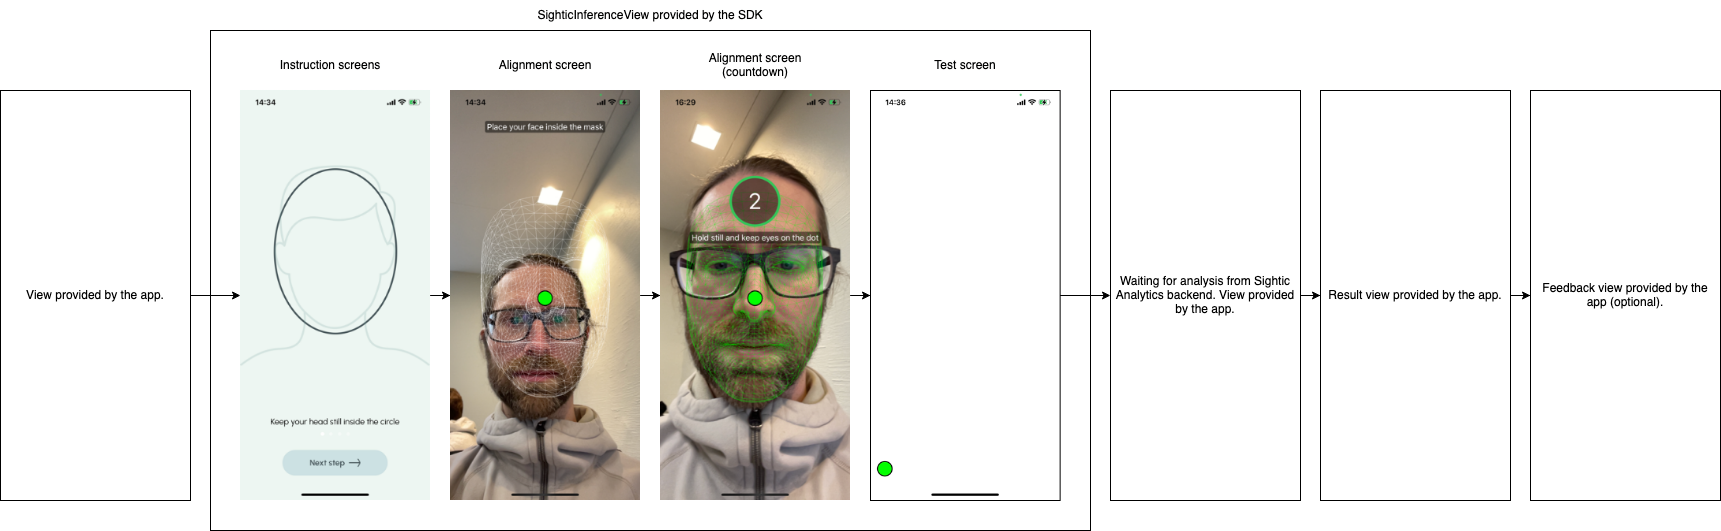
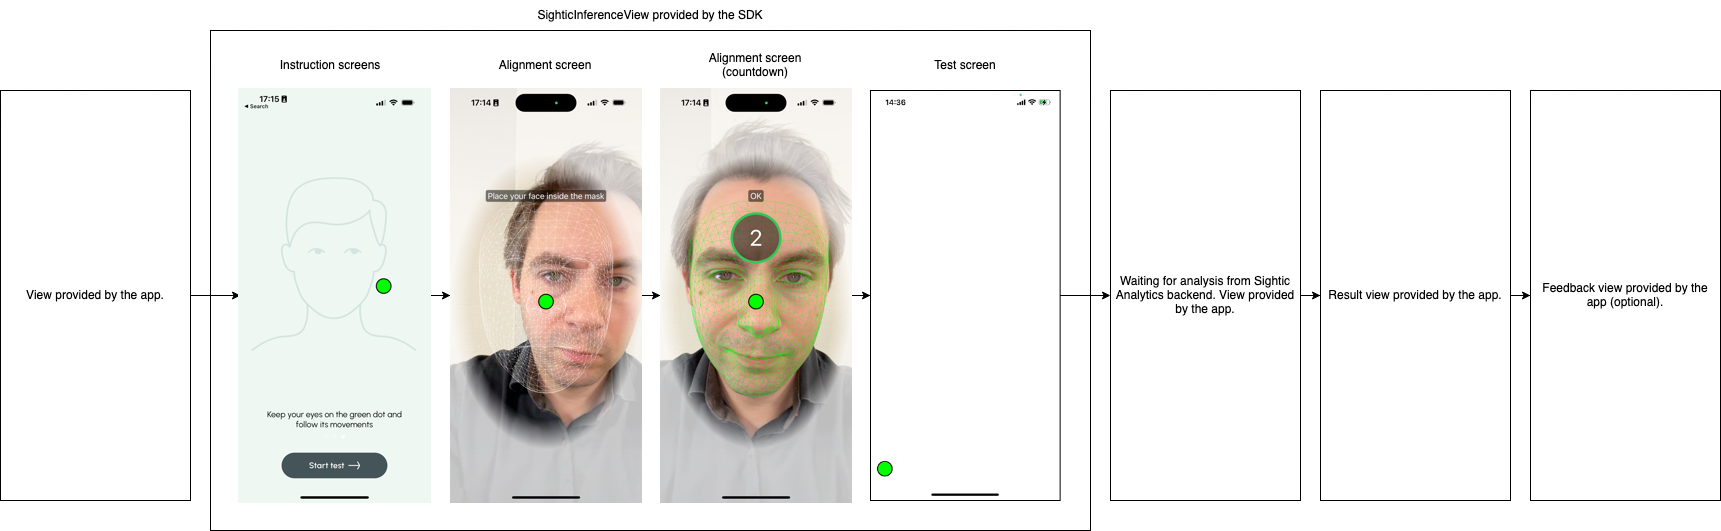
Update README.

diff --git a/README.md b/README.md
@@ -63,7 +63,6 @@ Another option is to set the camera usage description in your build settings if 
 The instruction screens provided by the SDK show the app user how to perform the test. You can disable those views using a parameter to the init method of `SighticInferenceView` and create instructions with your own design instead. Please include the following information when informing the app user about the test:
 
 * Tell the app user to hold their phone straight in front of their face
-* Tell the app user to hold their phone approx. 30 cm from their face
 * Tell the app user to follow the green dot with their eyes during the test
 * Tell the app user to hold the phone still during the test
 * Tell the app user to avoid talking during the test
@@ -71,11 +70,9 @@ The instruction screens provided by the SDK show the app user how to perform the
 
 The images below show what the instruction views provided by the SDK look like.
 
-![Instruction phase - Keep head in mask](images/instruction-view-keep-head-in-mask.png)
-
-![Instruction phase - 30 cm between face and phone](images/instruction-view-space-device-to-face.png)
-
 ![Instruction phase - Hold phone straight](images/instruction-view-hold-phone-straight.png)
+
+![Instruction phase - Do not talk](images/instruction-view-do-not-talk.jpeg)
 
 ![Instruction phase - Follow the dot](images/instruction-view-follow-dot.png)
 
@@ -115,7 +112,7 @@ A green moving dot is presented during the test phase. The app user is supposed 
 
 ### App optionally sends feedback to Sightic Analytics regarding result
 
-1. `SighticInferenceRecording` implements a function named `sendFeedback`.
+1. `SighticInference` implements a function named `sendFeedback`.
 1. The app can optionally call `sendFeedback` to provide `Sightic Analytics` with feedback regarding the inference result.
 
 ## How to use SighticStatus optionally provided by the SDK
@@ -164,43 +161,20 @@ struct MyApp: App {
     }
 ```
 
-## How to check device and SDK backend support
-
-### Is the SDK version supported by the Sightic Analytics backend?
-
-```swift
-switch await SighticVersion.sdkVersions(apiKey: "your-api-key-here") {
-case let .success(sdkVersions):
-    if sdkVersions.isCurrentVersionSupported {
-        // Start using the SDK.
-    }
-    else {
-        // Using the current version is not recommended.
-        print("Current version (\(SighticVersion.sdkVersion)) is unsupported.")
-        print("Supported versions are: \(sdkVersions.supportedVersions)")
-    }
-case let .failure(error):
-    print("an error occurred: \(error)")
-}
-```
-
-If the current version is outdated, this might print the following.
-
-```text
-Current version (0.0.46) is unsupported.
-Supported versions are: ["0.0.47", "0.0.48", "1.0"]
-```
-
-### Is my device supported?
+## How to check if my device is supported
 
 This code sample queries the backend for a list of supported devices, and ensures that the phone the app is running on is supported.
 
 ```swift
-if case let .success(supportedDevices) = await SighticSupportedDevices.load() {
-    guard supportedDevices.isCurrentSupported else {
-        // Handle the case where the current phone is not supported
-        return
+do {
+    guard try await SighticSupportedDevices().isCurrentSupported else {
+      // Handle the case where the current phone model is not supported
     }
+
+    // Continue with test
+}
+catch {
+    print("Error while checking for supprted devices: \(error)")
 }
 ```
 
@@ -235,19 +209,21 @@ The steps below use names from the SwiftUI variant.
 
 ## App flow
 
-The SwiftUI and UIKit Quickstart variants have similar flow. The screenshots below are from the UIKit variant.
+The SwiftUI and UIKit Quickstart variants have similar flow. The screenshots below are from the SwiftUI variant.
 
 ### StartViewController
 
 The `StartViewController` contains a button to go to the `TestViewController`. It also allows you to configure the `SighticInferenceView`:
+
 * Whether to show the instruction screens
 * Whether to overlay the default alignment screen with another view that shows `SighticStatus` provided by the SDK in an optional closure to the app. 
 
-![Start view](images/start-view.png)
+![Start view](images/start-view.jpeg)
 
 ### TestViewController
 
 The `TestViewController` is a container for the `SighticInferenceView`. The `SighticInferenceView` is part of [Sightic Analytics iOS SDK](https://github.com/SighticAnalytics/sightic-sdk-ios) and performs the following phases:
+
 1. Shows an instruction view to the user.<br>
    ![Instruction view](images/instruction-view.png)
 1. The next step is an alignment screen to help the user position the phone and their head correctly. The QuickStart app overlays the default alignment screen with alignment hints and a countdown using information in the `SighticStatus` closure.<br>
